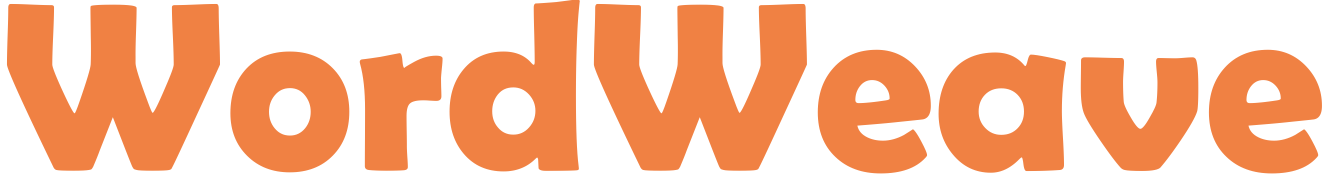
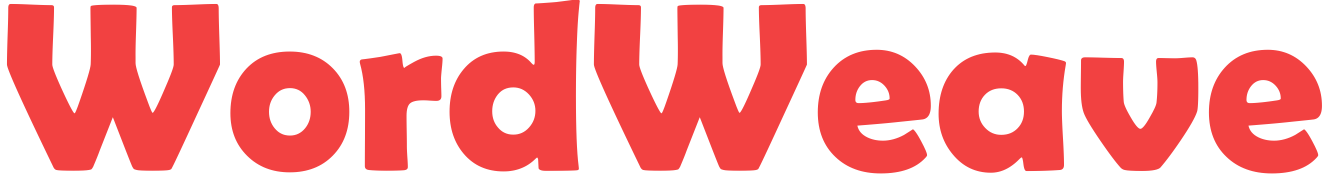
Update

diff --git a/style.css b/style.css
@@ -2,11 +2,75 @@
 font-family: "Poppins", sans-serif;
  */
 @import url('https://fonts.googleapis.com/css2?family=Poppins:ital,wght@0,100;0,200;0,300;0,400;0,500;0,600;0,700;0,800;0,900;1,100;1,200;1,300;1,400;1,500;1,600;1,700;1,800;1,900&display=swap');
-
+:root{
+    --Aorange: #F08143;
+    --Ared-shadow: #f23636;
+    --Ared-bg: #f55c5c;
+}
 *{
     margin: 0;
     padding: 0;
     box-sizing: border-box;
     list-style: none;
     text-decoration: none;
+    scroll-behavior: smooth;
+    transition: all .3s ease;
+}
+body{
+    font-family: "Poppins", sans-serif;
+    background: rgba(255, 255, 255, .3);
+}
+header .container{
+    height: 100vh;
+    background-image: linear-gradient(rgba(0,0,0,0.4),rgba(0,0,0,0.1)), url(images/hero-bg.jpeg);
+    background-position: center;
+    background-size: cover;
+    background-repeat: no-repeat;
+}
+.container .navbar{
+    padding: 0px 40px;
+    backdrop-filter: blur(10px);
+    background: #ffffffcc;
+    box-shadow: 3px 3px 5px (rgba(0,0,0,0.3));
+    display: flex;
+    align-items: center;
+    justify-content: space-between;
+}
+.logo img{
+    margin-right: auto;
+    width: 150px;
+    cursor: pointer;
+}
+.navbar nav ul{
+    display: flex;
+    align-items: center;
+    height: 60px;
+}
+.navbar ul li{
+    padding: 0 25px;
+    font-size: 14px;
+    text-transform: uppercase;
+    font-weight: 600;
+}
+.navbar ul li a{
+    color: #000;
+}
+.navbar ul li::after{
+    content: " ";
+    background: #000;
+    height: 2px;
+    display: block;
+    margin: auto;
+    transition: all .3s ease;
+    width: 0;
+}
+.navbar ul li:hover::after{
+    width: 100%;
+}
+.navbar ul li .cta-btn{
+    color: #fff;
+    box-shadow: 0 2px 0 0 var(--Ared-shadow);
+    padding: 10px 25px;
+    border-radius: 5px;
+    background-color: var(--Ared-bg);
 }

diff --git a/index.html b/index.html
@@ -13,7 +13,7 @@
             <div class="container">
                 <div class="navbar">
                     <div class="logo">
-                        <a href="#"><img src="images/white.png" alt=""></a>
+                        <a href="index.html"><img src="images/orangeblack.png" alt="logo"></a>
                     </div>
                     <nav>
                         <ul>
@@ -22,7 +22,7 @@
                             <li><a href="#">Industries</a></li>
                             <li><a href="#">Examples</a></li>
                             <li><a href="#">Blog</a></li>
-                            <li><a href="#">Let's Talk</a></li>
+                            <li><a href="#" class="cta-btn nav-btn">Let's Talk</a></li>
                         </ul>
                     </nav>
                 </div>
